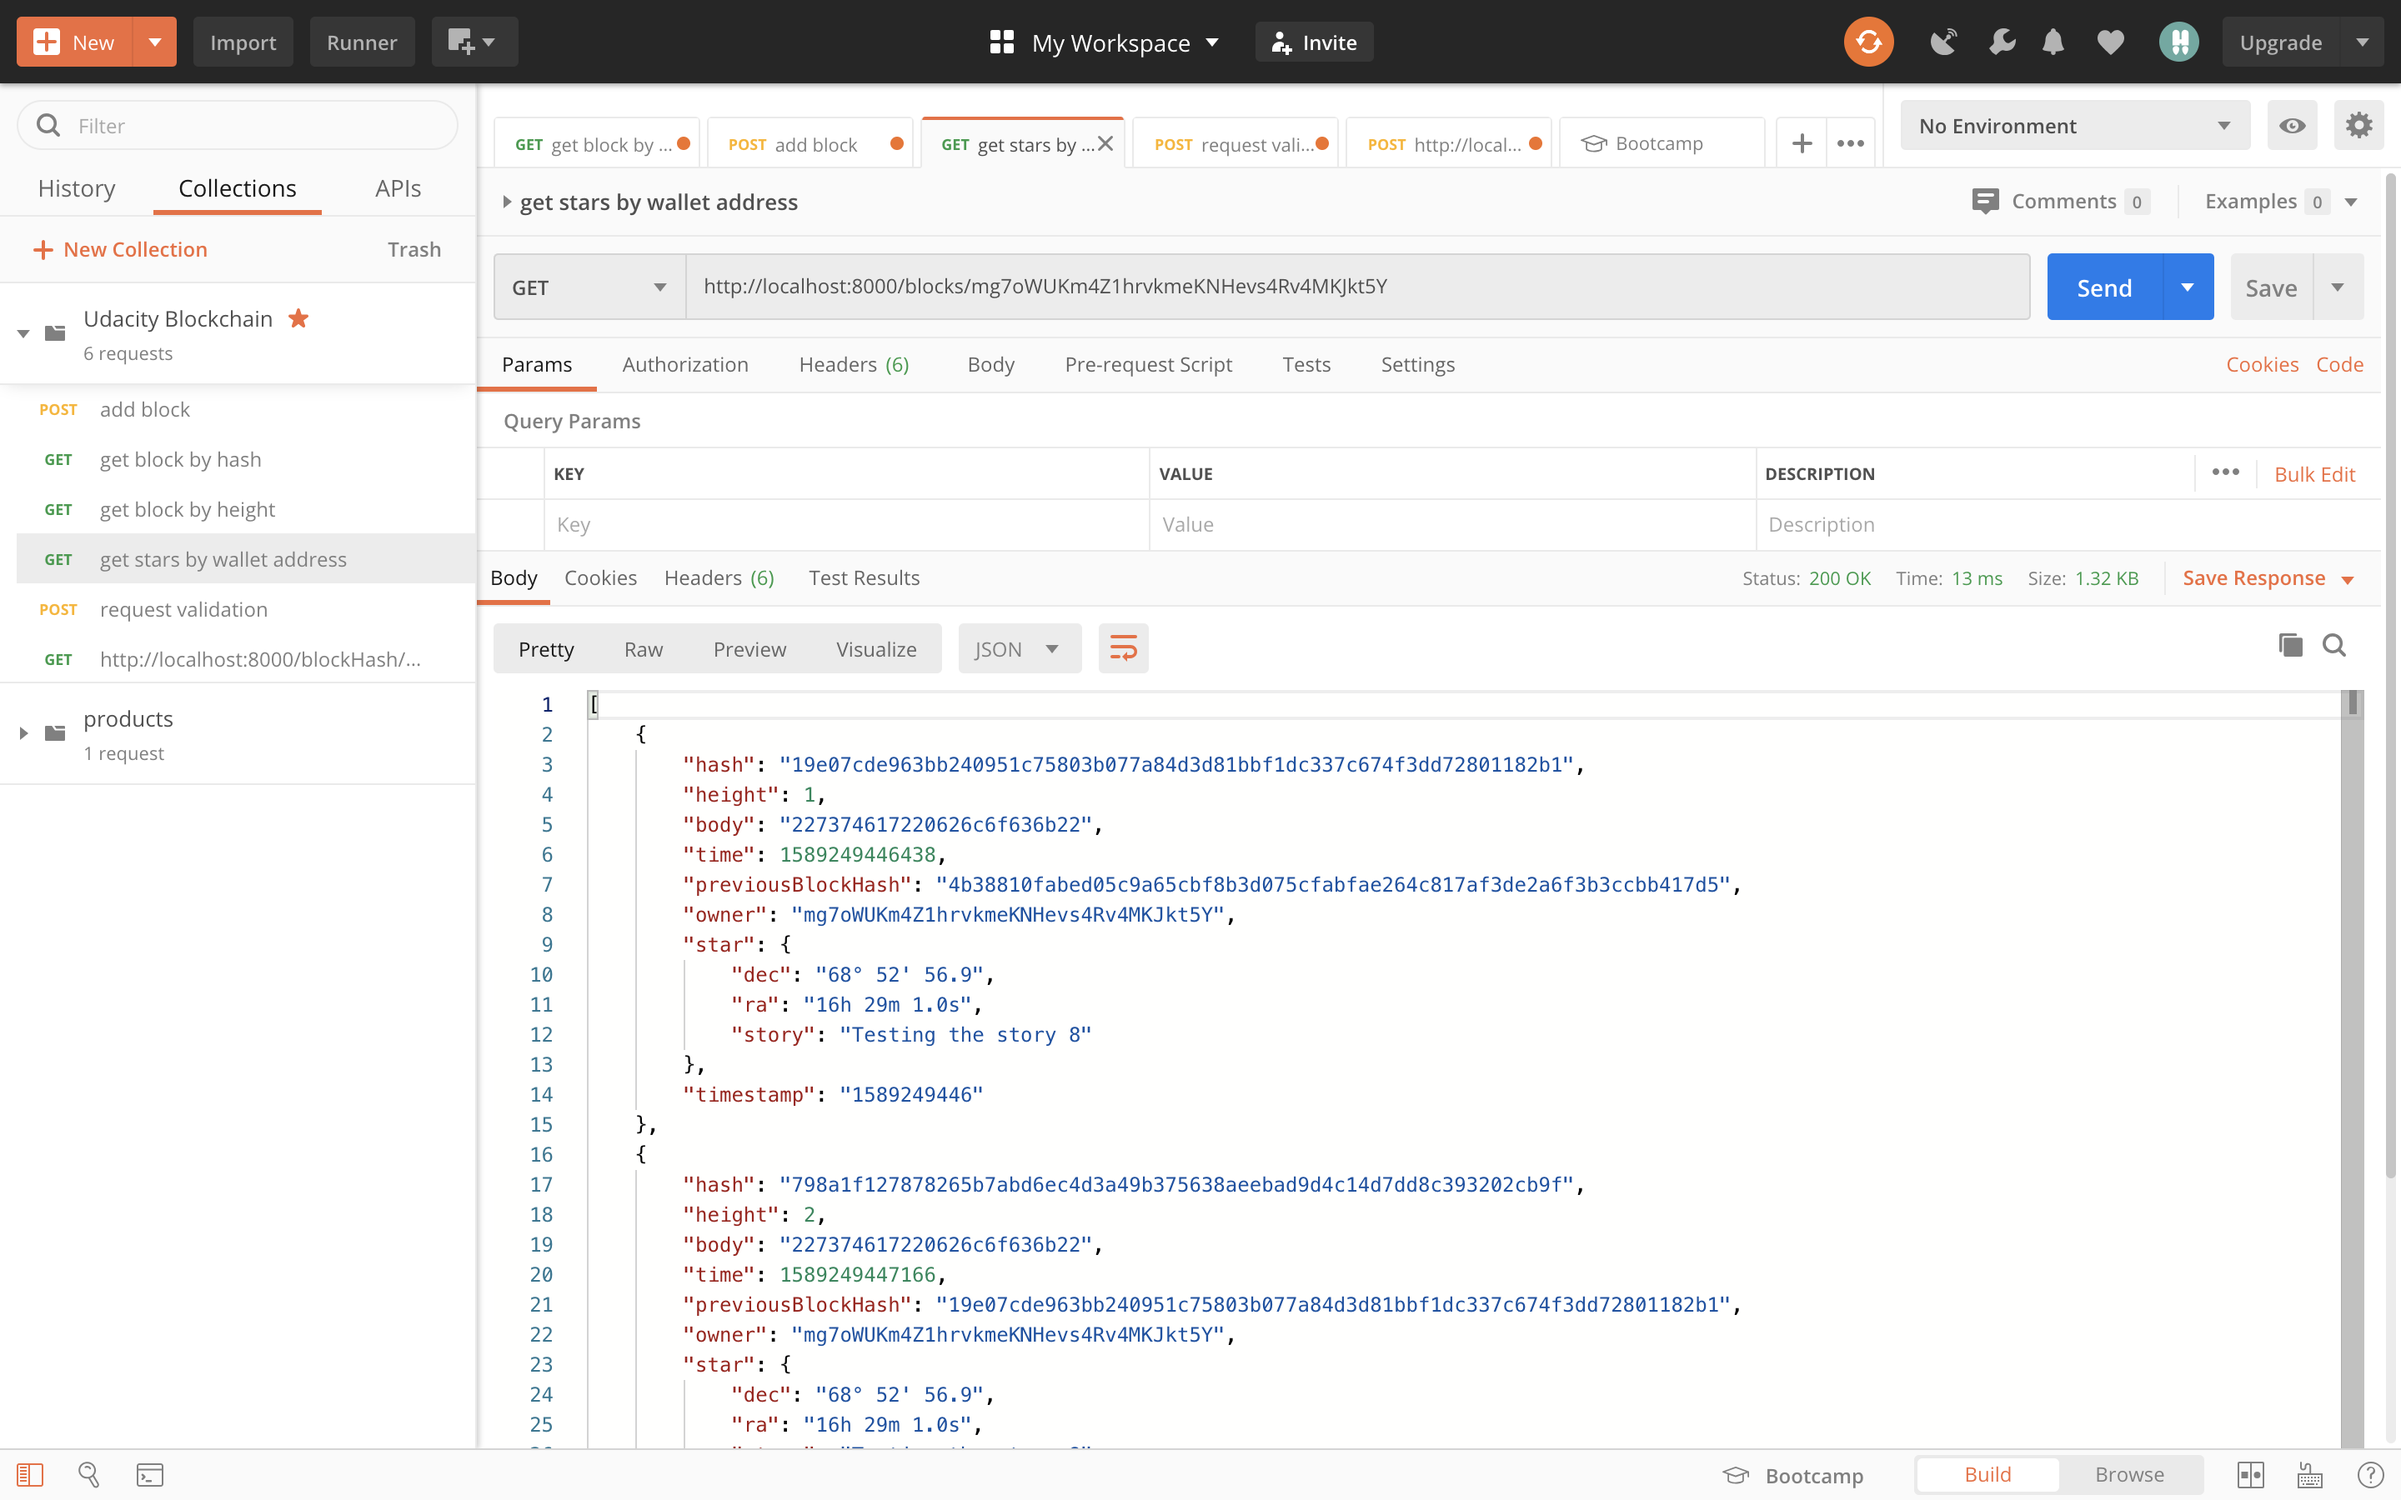
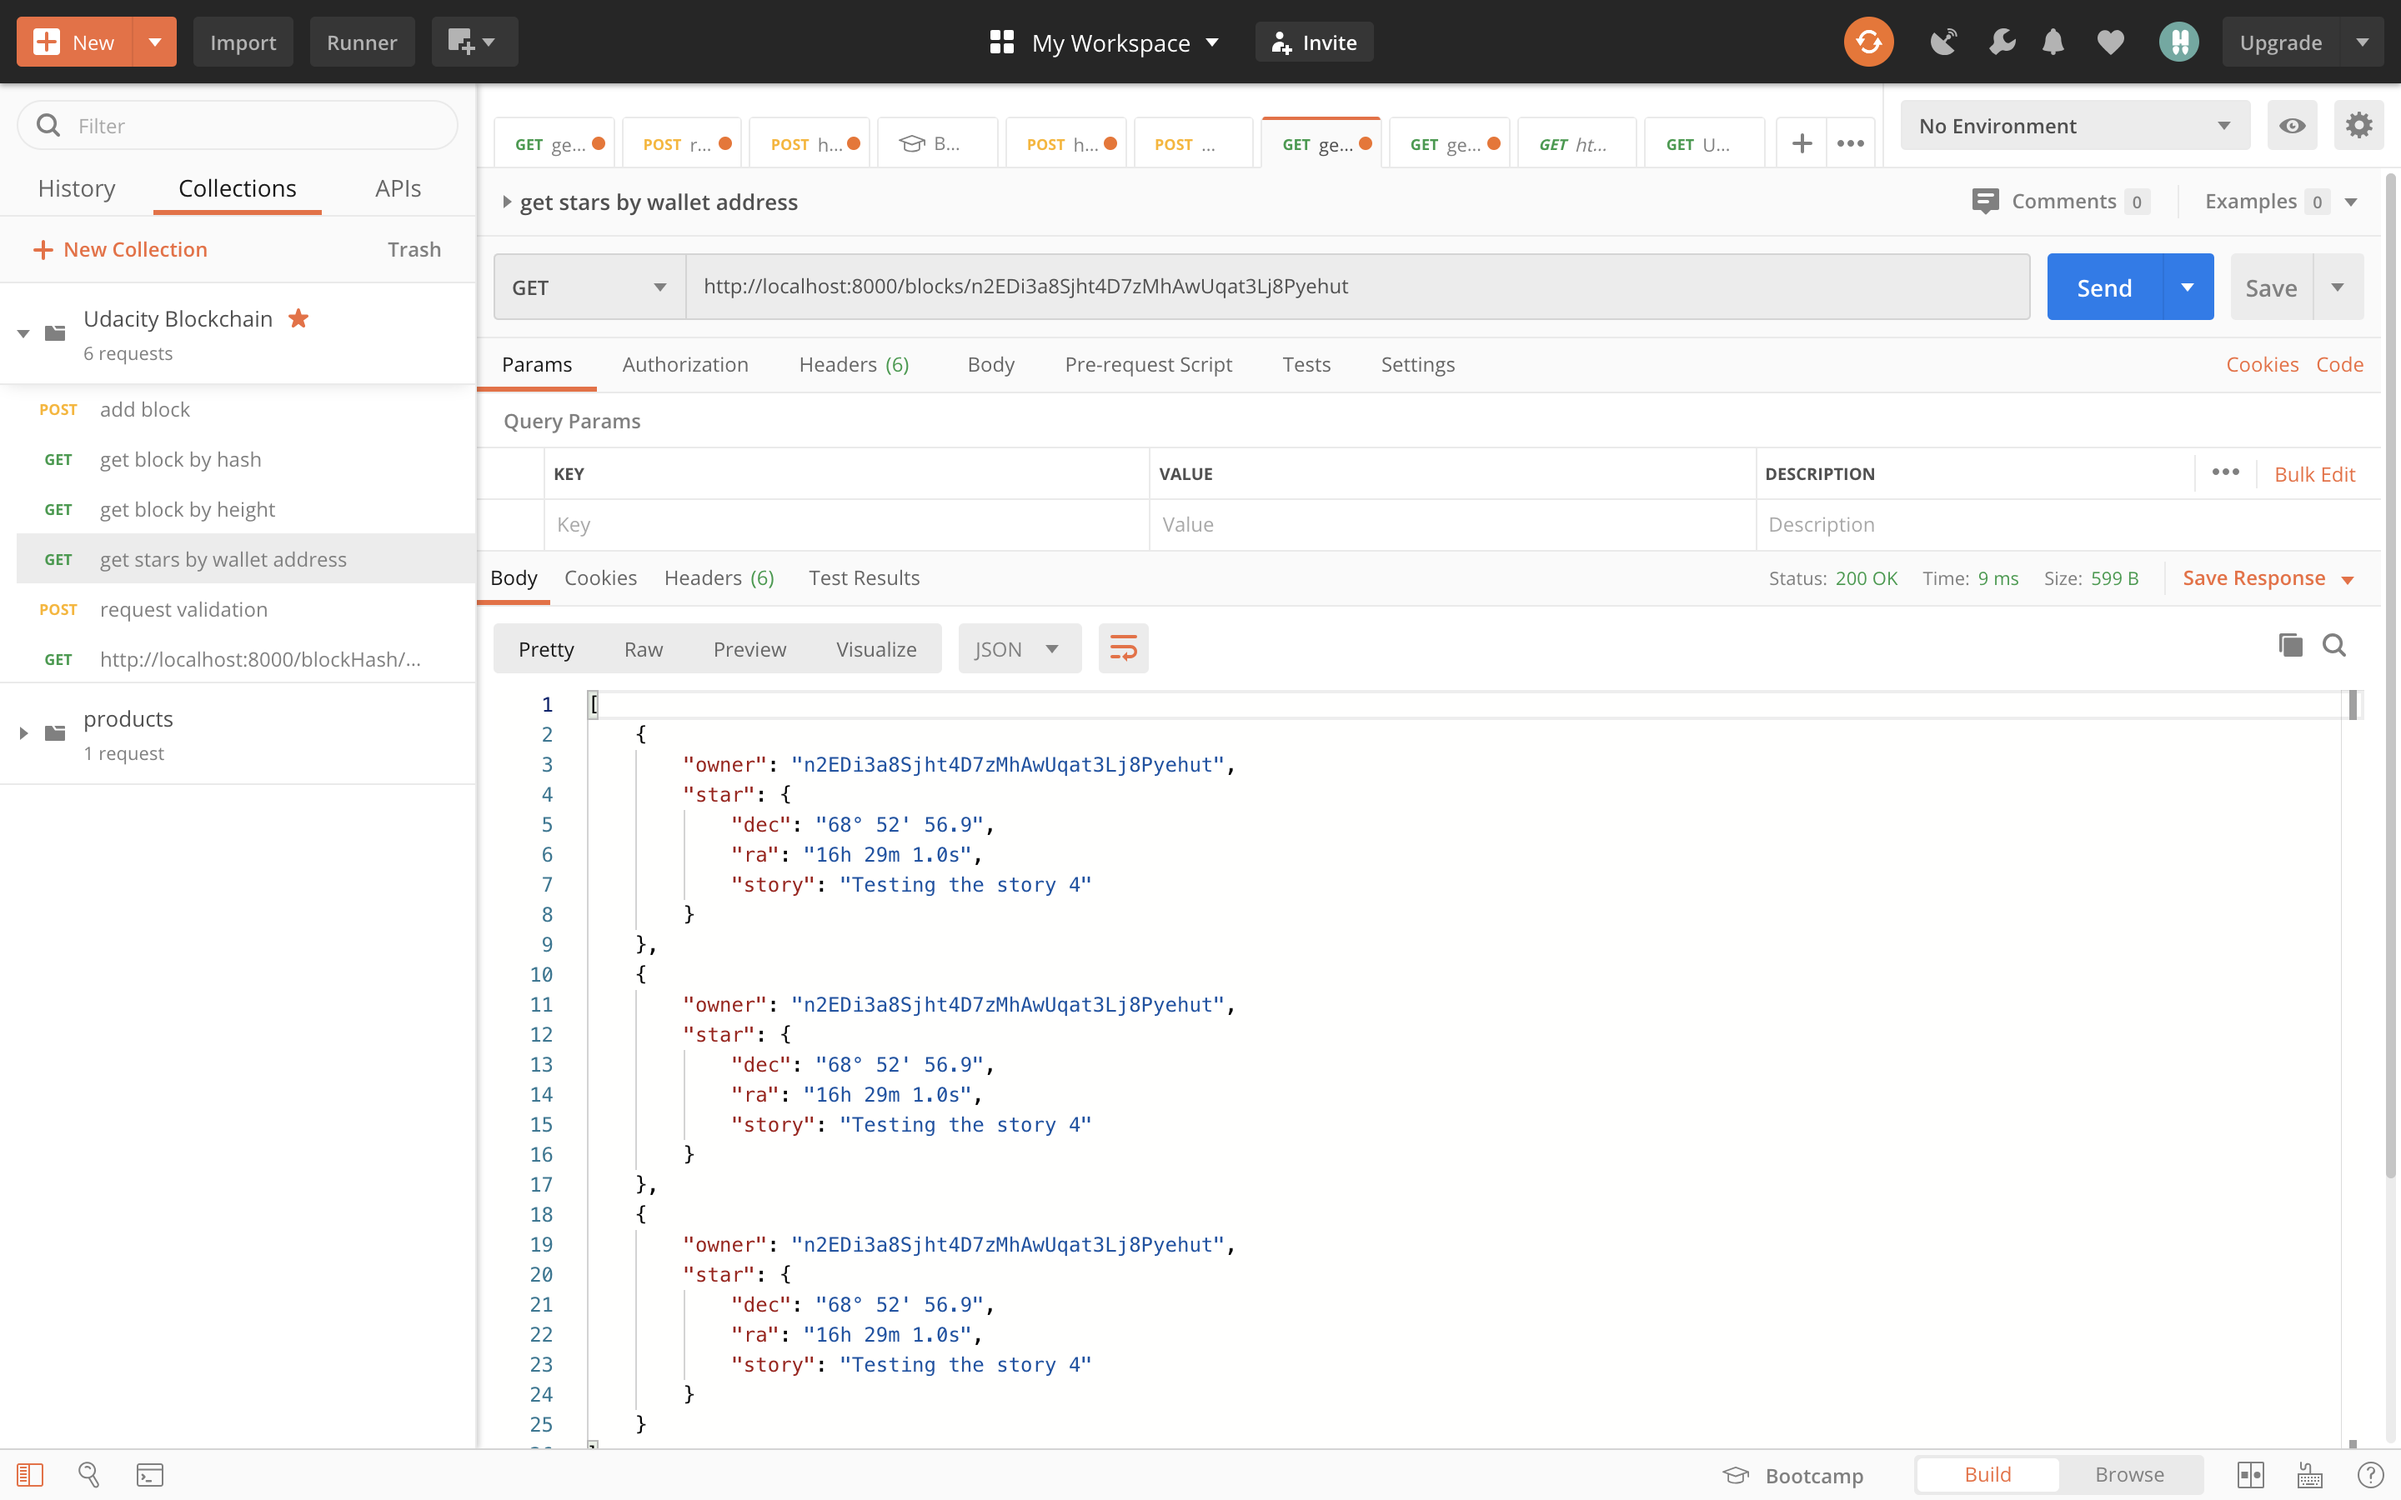
fixes

diff --git a/src/block.js b/src/block.js
@@ -15,12 +15,12 @@ const hex2ascii = require('hex2ascii');
 class Block {
 
     // Constructor - argument data will be the object containing the transaction data
-	constructor(data){
-		this.hash = null;                                           // Hash of the block
-		this.height = 0;                                            // Block Height (consecutive number of each block)
-		this.body = Buffer(JSON.stringify(data)).toString('hex');   // Will contain the transactions stored in the block, by default it will encode the data
-		this.time = +new Date;                                              // Timestamp for the Block creation
-		this.previousBlockHash = null;                              // Reference to the previous Block Hash
+    constructor(data){
+        this.hash = null;                                           // Hash of the block
+        this.height = 0;                                            // Block Height (consecutive number of each block)
+        this.body = Buffer(JSON.stringify(data)).toString('hex');   // Will contain the transactions stored in the block, by default it will encode the data
+        this.time = +new Date;                                              // Timestamp for the Block creation
+        this.previousBlockHash = null;                              // Reference to the previous Block Hash
     }
     
     /**
@@ -39,13 +39,15 @@ class Block {
         let self = this;
         return new Promise((resolve, reject) => {
             // Save in auxiliary variable the current block hash
-            let auxHash = self.hash;
+            let currentHash = self.hash;
+            self.hash = null;
                                             
             // Recalculate the hash of the Block
-             let validHash = SHA256(JSON.stringify(this)).toString();
+             let newHash = SHA256(JSON.stringify(self)).toString();
+             self.hash = newHash;
 
             // Comparing if the hashes changed
-            if (auxHash === validHash) {
+            if (currentHash === newHash) {
             // Returning the Block is valid
                 resolve("The Block is valid.");
             }
@@ -90,3 +92,4 @@ class Block {
 }
 
 module.exports.Block = Block;                    // Exposing the Block class as a module
+

diff --git a/src/blockchain.js b/src/blockchain.js
@@ -118,22 +118,20 @@ class Blockchain {
         return new Promise(async (resolve, reject) => {
             let blockTime = parseInt(message.split(':')[1]);
             let currentTime = parseInt(new Date().getTime().toString().slice(0, -3));
-            console.log('currenttime', currentTime)
             if (currentTime - blockTime < 5 * 6000) {
                 bitcoinMessage.verify(message, address, signature);
                 let block = new BlockClass.Block('star block');
                 block.owner = address;
                 block.star = star;
+                console.log('block', block)
                 await this._addBlock(block)
                 resolve(block)
             }
             else {
-                reject(error)
+                reject(Error('Could not add block.'))
             }
-         
         });
     }
-
     /**
      * This method will return a Promise that will resolve with the Block
      *  with the hash passed as a parameter.
@@ -185,7 +183,8 @@ class Blockchain {
         return new Promise((resolve, reject) => {
             stars = self.chain.filter(block => block.owner === address);
             if(stars !== null) {
-                resolve(stars)
+                const starsByOwner = stars.map(({ height, hash, body, time, timestamp, previousBlockHash,  ...star }) => star)
+                resolve(starsByOwner)
             }
             else {
                 reject(Error('No stars'))

diff --git a/BlockchainController.js b/BlockchainController.js
@@ -63,6 +63,12 @@ class BlockchainController {
                 const message = req.body.message;
                 const signature = req.body.signature;
                 const star = req.body.star;
+
+                console.log('address', address)
+                console.log('address', signature)
+
+                console.log('address', star)
+                console.log('address', message)
                 try {
                     let block = await this.blockchain.submitStar(address, message, signature, star);
                     if(block){
@@ -122,3 +128,4 @@ class BlockchainController {
 }
 
 module.exports = (app, blockchainObj) => { return new BlockchainController(app, blockchainObj);}
+
